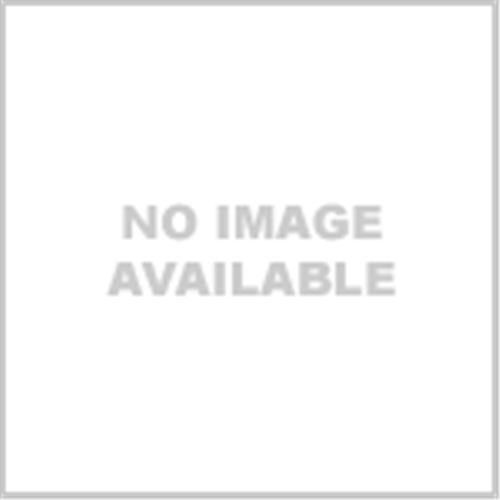
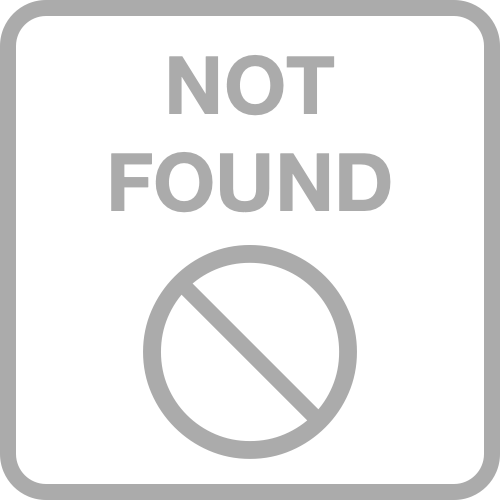
DigViewer: enriched stock images of thumbnails

Changed region(s): [[0.21, 0.3, 0.81, 0.93], [0.0, 0.0, 1.0, 1.0], [0.33, 0.09, 0.69, 0.24]]

diff --git a/OSX/DigViewer/ThumbnailCache.mm b/OSX/DigViewer/ThumbnailCache.mm
@@ -27,6 +27,7 @@ static constexpr auto THUMBNAIL_MAX_SIZE = 384.;
 //-----------------------------------------------------------------------------------------
 static ECGImageRef stock_image_unavailable;
 static ECGImageRef stock_image_processing;
+static ECGImageRef stock_image_corrupted;
 
 //-----------------------------------------------------------------------------------------
 // Image cache pool
@@ -341,7 +342,11 @@ public:
                     lock.unlock();
                     auto&& image = render_thumbnail_image(*current, 0, config);
                     lock.lock();
-                    current->image_node->image = image;
+                    if (image){
+                        current->image_node->image = image;
+                    }else{
+                        current->image_node->image = stock_image_corrupted;
+                    }
                     cache.put(current->image_node->node, current->image_node);
                     current->completion(current->image_node->node);
                 }
@@ -474,6 +479,9 @@ public:
         }
         if (!stock_image_processing){
             stock_image_processing = CGImage_from_NSImage([PathNode processingImage], THUMBNAIL_MAX_SIZE);
+        }
+        if (!stock_image_corrupted){
+            stock_image_corrupted = CGImage_from_NSImage([PathNode corruptedImage], THUMBNAIL_MAX_SIZE);
         }
         _manager = std::make_unique<cache_manager>();
 

diff --git a/OSX/DigViewer/PathNode.mm b/OSX/DigViewer/PathNode.mm
@@ -84,10 +84,21 @@ static ThumbnailConfigController* __weak _thumbnailConfig;
     static NSImage* _processingImage = nil;
     
     if (!_processingImage){
-        _processingImage = [[NSBundle mainBundle] imageForResource:@"processing.png"];
+        _processingImage = [[NSBundle mainBundle] imageForResource:@"rendering.png"];
     }
     
     return _processingImage;
+}
+
++ (NSImage*) corruptedImage
+{
+    static NSImage* _corruptedImage = nil;
+    
+    if (!_corruptedImage){
+        _corruptedImage = [[NSBundle mainBundle] imageForResource:@"corrupted.png"];
+    }
+    
+    return _corruptedImage;
 }
 
 //-----------------------------------------------------------------------------------------

diff --git a/OSX/DigViewer/PathNode.h b/OSX/DigViewer/PathNode.h
@@ -96,6 +96,7 @@ typedef struct _PathNodeCreateOption PathNodeCreateOption;
 // stock image accesser
 + (NSImage*) unavailableImage;
 + (NSImage*) processingImage;
++ (NSImage*) corruptedImage;
 
 // ツリーウォーキング
 - (PathNode*) nextImageNode;
